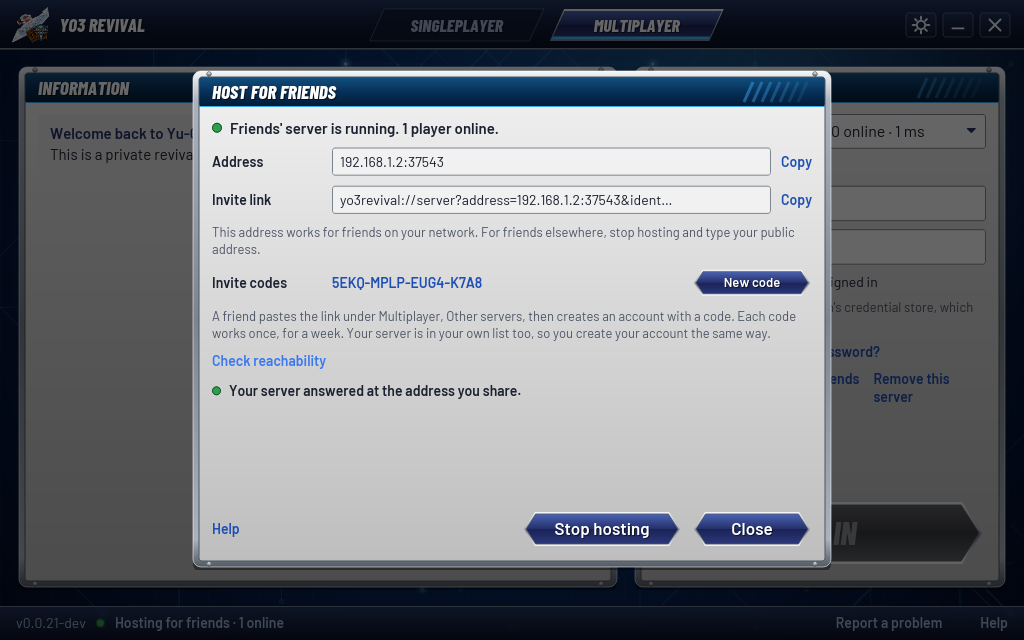
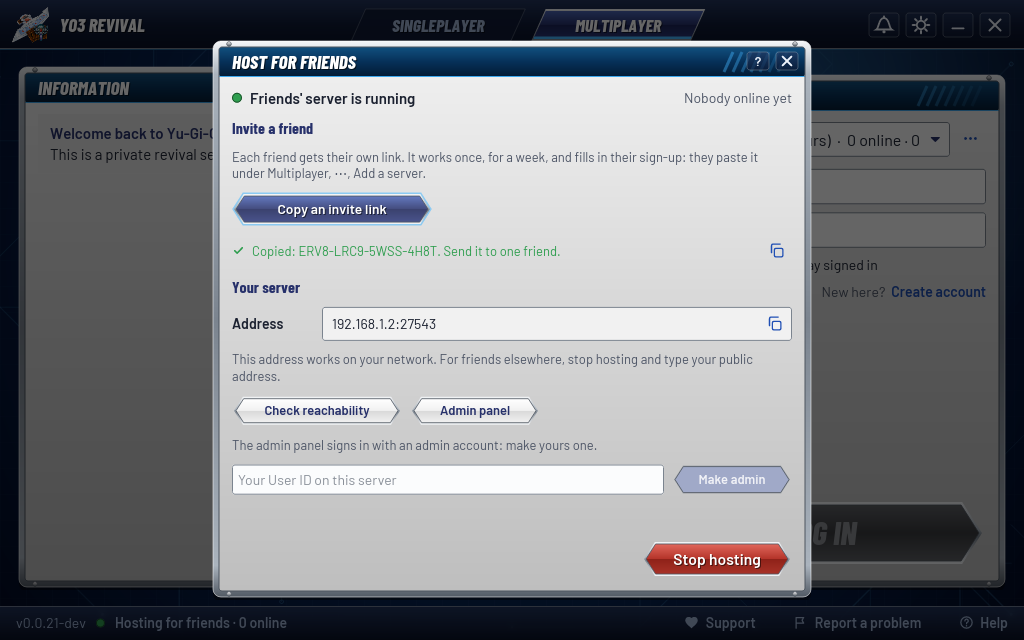
docs: the launcher's UX pass in the guides, the style guide and new screenshots (#50)

diff --git a/docs/launcher.md b/docs/launcher.md
@@ -68,8 +68,8 @@ game** with **Fix**, which reopens Setup at the Game step. Settings → Game →
 ![The main screen: Singleplayer, with the Information panel and PLAY](../screenshots/desktop.png)
 
 **PLAY** starts your own server, then the game, and the line above the button names each step; after 30 seconds
-without the game, **Cancel** stops what it started. While you play, **Close game** asks the game to stop and forces it
-after 10 seconds. Your server stops 30 seconds after the game exits, so a quick relaunch reuses it. If YO3 Revival
+without the game, the big button becomes **CANCEL**, which stops what it started. While you play it is **CLOSE GAME**,
+which asks the game to stop and forces it after 10 seconds. Your server stops 30 seconds after the game exits, so a quick relaunch reuses it. If YO3 Revival
 crashes, the game keeps playing and your server stops by itself once nobody has played for two minutes. A game opened
 without the launcher shows as **PLAYING**, so a second copy can't be started.
 
@@ -84,26 +84,33 @@ starts, newest first); Settings → Singleplayer has the backups, a reset and th
 
 The **Multiplayer** tab signs in to servers with a User ID and password ([accounts](authentication.md#accounts)):
 
-![The Multiplayer tab, signed in to a friend's server, with the game running](../screenshots/multiplayer.png)
+![The Multiplayer tab, signed in to a server, with the server tools beside the list](../screenshots/multiplayer.png)
 
 - **The server list**: the official servers (from a list signed by the project, once it publishes one) and the ones you
-  added under **Other servers**, the last one you played on first. Each shows whether it is online, with how many
-  players and its ping, or Maintenance, Offline, Needs a newer launcher, or Identity changed. The Information panel shows
-  the chosen server's news.
-- **Other servers**: paste an invite link a host sent you (`yo3revival://server?…`), or type an address (`host` or
-  `host:port`). An invite link carries the server's identity, so it is added at once. An address shows the server's
-  name first; **Details** shows its identity, to compare with one the host gave you. YO3 Revival checks the identity on
-  every connection after that. If it ever changes, the server's row says so and nothing connects: remove the server and
-  add it again only if the host confirms the change.
-- **Create account**: a User ID (3 to 16 letters or digits), a password of 8 to 16 letters or digits, typed twice,
-  and the server's invite code when it asks for one. You then see a **recovery code** once: save it.
+  added, the last one you played on first. Each shows whether it is online (the dot: green, amber or red), with how
+  many players and its ping, or Maintenance, Offline, Needs a newer launcher, or Identity changed. The Information panel
+  shows the chosen server's news.
+- **Server tools** (the **⋯** beside the list): **Add a server**, **Host for friends**, and **Remove this server** for one
+  you added.
+- **Add a server**: paste an invite link a host sent you (`yo3revival://server?…`), or type an address (`host` or
+  `host:port`). The line under the box says what it found as you type: the link's server, or the name of the server
+  that answers at that address; **Add** works once something is found. An invite link carries the server's identity,
+  so it is added at once, and a link made for you carries your invite code too: making your account opens with it
+  filled in. An address shows the server's name first; **Details** shows its identity, to compare with one the host
+  gave you. YO3 Revival checks the identity on every connection after that. If it ever changes, the server's row says
+  so and nothing connects: remove the server and add it again only if the host confirms the change.
+- **Create account** (under the sign-in, **New here?**): a User ID (3 to 16 letters or digits), a password of 8 to 16
+  letters or digits that isn't the User ID, typed twice, and the server's invite code when it asks for one. A list
+  under the form ticks each rule green as you type; **Create account** works once all are met and the rules are
+  accepted. You then see a **recovery code** once: **Copy** it or **Save** it as a text file, then **I saved it** signs
+  you in.
 - **LOG IN**: **Save User ID** keeps only the name. **Stay signed in** keeps a sign-in token in your system's credential
   store (Windows Credential Manager, or the Secret Service on Linux), never the password; without such a store it is
   off and says why. Wrong User ID or password get the same message, and repeated tries wait longer each time.
 - **Forgot password?**: your recovery code (or a reset code from the server's moderators, who check it's you first) and
   a new password. A recovery code is replaced by a new one, shown once.
-- **PLAY** starts the game signed in to the server; **Close game** works as in Singleplayer. **Sign out** forgets this
-  PC's sign-in. Signing in elsewhere ends this game's session: the newest sign-in wins. PLAY checks your sign-in first:
+- **PLAY** starts the game signed in to the server; **CLOSE GAME** and **CANCEL** work as in Singleplayer. Signed in,
+  the panel shows your User ID with a red **Sign out**, which forgets this PC's sign-in. Signing in elsewhere ends this game's session: the newest sign-in wins. PLAY checks your sign-in first:
   if it ended (the server restarted, a moderator, or a sign-in on another PC), **Stay signed in** starts a new one, and
   otherwise you sign in again.
 
@@ -115,24 +122,27 @@ Settings → Accounts lists every server you're signed in to on this PC, with Si
 LAN". It is the same server as Singleplayer's, with its own data (its own accounts, cards and decks), and it runs while
 YO3 Revival is open.
 
-![Host for friends: the address, the invite link, an invite code and a friend online](../screenshots/host-friends.png)
+![Host for friends: an invite link for a friend, the address and a friend online](../screenshots/host-friends.png)
 
-1. On the Multiplayer tab, click **Host for friends**.
+1. On the Multiplayer tab, open the server tools (**⋯**) and click **Host for friends**.
 2. Give your server a name. Keep port **7443** unless something else uses it. Leave **Address to share** empty for
    this PC's network address (friends on your home network reach it), or type your public address or a name such as
    `play.example.com` for friends elsewhere (see [Friends can't connect](#troubleshooting)).
-3. Click **Start hosting**. The dialog shows the **Address** and the **Invite link**, each with **Copy**, and an invite
-   code. Send each friend the link and their own code: **New code** makes another. A code works once, for a week.
-4. Your friend pastes the link under Multiplayer → **Other servers**, clicks **Create account** and uses the code.
-5. Your server is in your own Multiplayer list too, as **(yours)**: make your own account there with a code, and play
-   on it like everyone else.
+3. Click **Start hosting**. Then, for each friend, click **Copy an invite link** and send them what it copied. Each
+   friend gets their own link: it carries a single-use invite code that works for a week. The dialog lists the links
+   made this time, with a copy button each, and the **Address** with its own.
+4. Your friend pastes the link under Multiplayer → **⋯** → **Add a server**: making their account opens with the code
+   filled in.
+5. Your server is in your own Multiplayer list too, as **(yours)**: make your own account there with an invite link of
+   your own, and play on it like everyone else.
 
 The footer says **Hosting for friends** with how many players are online; click it to open the dialog again.
 **Check reachability** asks your server at the address you share. From this PC that also needs your router to loop the
 connection back, so a failure there means "maybe", not "no". **Admin panel** opens your server's
 admin panel in your browser (accounts, moderation, news, settings, gifts). It signs in with an admin account: create
-your account on your server from Multiplayer, then type its User ID beside **Admin** and click **Make admin**. **Stop hosting** ends the server; friends' duels end as
-draws. Closing YO3 Revival stops it too, and asks first while friends are online.
+your account on your server from Multiplayer, then type its User ID in the box under it and click **Make admin**.
+The red **Stop hosting** ends the server; friends' duels end as draws. The dialog's **?** opens this topic in Help, and
+**×** closes the dialog while your server keeps running. Closing YO3 Revival stops it too, and asks first while friends are online.
 
 Only the TLS port needs to be reachable. If another program has it, the dialog says so in one line with **Change
 port**. Singleplayer and hosting can't share a port at the same time: with the defaults, your Singleplayer server gives
@@ -223,7 +233,9 @@ Multiplayer, hosting, settings, the common problems and where to talk with other
 is free, and giving changes nothing in the game.
 
 Every error is one plain sentence with one action: its own (**Retry**, **Fix**, **Repair**, **Allow**, **Restore a
-backup**) or **Report**. **Help** opens the topic for that error. **Details** shows the technical text, with your
+backup**) or **Report**. Your own server's notices show on its panel. Those about both tabs (a game opened without the
+launcher that couldn't play, an update that didn't install, a permission to give) go to the **bell** in the title
+bar, which counts the new ones; click it to see them. **Help** opens the topic for that error. **Details** shows the technical text, with your
 folders written as names such as `<game>` or `<app data>`, and **Copy** puts it on the clipboard.
 
 ![Help: the guide inside the launcher, at Host for friends](../screenshots/help.png)
@@ -233,7 +245,7 @@ folders written as names such as `<game>` or `<app data>`, and **Copy** puts it 
 **Report a problem** (in the footer, in Help, or beside an error):
 
 1. Say what you were doing and what went wrong.
-2. Click **Open the report form**. YO3 Revival saves this session's logs in a ZIP, with personal details removed, opens
+2. Click **Continue on GitHub**. YO3 Revival saves this session's logs in a ZIP, with personal details removed, opens
    the folder that holds it, and opens the project's report form in your browser, filled in with your words, the
    version and the error.
 3. Drag the ZIP into the form and submit it. Nothing is sent until you submit the form yourself.

diff --git a/docs/features.md b/docs/features.md
@@ -209,6 +209,7 @@ release, and "—" a row that is not implemented or unsupported.
 | Beta launcher: visible and signed updates (#32) | Partial | Unreleased (`beta` branch) | `updates/flow.rs` (checks at start and every 6 h, one download per version, a refused download never installed, a version that failed to start not retried, the ribbon only with the game closed, What's new from the release notes), `updates/signature.rs` (the project key built in; a throwaway test key: good, wrong-key, changed and truncated signatures, a manifest that disagrees with GitHub, a release without `SHA256SUMS.sig` or `SHA256SUMS` refused), `tools/test_release_notes.py` (the workflow's `sign_release.sh` signs with Desktop's key only; the signature not listed as a download), `lib.rs` `released_launchers_still_open_the_database_so_their_shortcuts_reach_the_update` (v0.0.21's launcher.db statements on the beta's database), `update_activation.rs` (installed at the next start, never while the game is open, a failed start keeping this version with a notice), `tools/test-packaged-update.sh` (a manifest signed by the workflow's script with a test key, a bad and a missing signature refused; with `--from` the v0.0.21 archive: its launcher's data, the update promoted, its original binary handing over to the update; in the release gate); live 2026-11-16 on private Xvfb with the real v0.0.21 archive and a v0.1.0 archive carrying this branch's launcher: v0.0.21's own updater code (stage, launch, promote) installed it and its original binary handed over; the same with the launcher before this fix failed ("Launcher database is newer than this application", the update not activated and v0.0.21 locked out of its own data); live on X11 with a fake newer release: the footer dot, the ribbon, What's new and Restart to install | Updates must be signed: the Release workflow signs `SHA256SUMS` with the `UPDATE_SIGNING_KEY` secret and checks it before publishing; a release without `SHA256SUMS.sig` is refused. `launcher.db` stays at `user_version` 1 so that v0.0.21 and older still open it and hand their shortcut over (the schema is in `launcher_schema`). Not yet seen: a real signed release (the first one is the beta's), the Windows VM. |
 | Beta launcher: Multiplayer (server list, sign-up, sign-in, recovery, server identity) | Implemented | Unreleased (`beta` branch) | `multiplayer_session.rs` (a kick and a newer sign-in end the session, no answer doesn't), `multiplayer.rs` tests (a signed list and a tampered one, key rotation, invite links, every error's sentence, the vault), `multi.rs` state tests (the button for each server state, each refusal, a session that ended before Play, a revoked stay-signed-in forgotten, no credential store), `launcher_db.rs` (schema 3 in `launcher_schema`, `user_version` staying 1 for released launchers: v0.0.21's and the beta's databases upgrade, the old `servers` table of key connections dropped with its bytes overwritten); live on X11 against a scratch invite-only server: add by address with the identity shown, sign up with an invite code, a wrong password, sign in, PLAY into the game's Select Player, Close game, sign out, recover with the recovery code, sign in again; the same on the Windows 11 VM (2026-11-16) against a scratch server on the host: setup, the identity shown on first contact matching the server key's SHA-256, sign-up with an invite code, a wrong password, sign in, PLAY into the world with a new player, a second PLAY after closing the game, a PLAY after a kick (Stay signed in resumed; without it, "Your sign-in ended…" and the form instead of a game that can't connect), recovery, sign in with the new password; Stay signed in kept its token in Windows Credential Manager under the server's identity and Sign out removed it | #30. The official list's key and where it is hosted wait on D14 (`yo3-server-list` signs it). The Secret Service on Linux is checked only through the state model and a vault in memory. |
 | Beta launcher: Settings, Help, Report a problem and plain errors | Implemented | Unreleased (`beta` branch) | `options.rs` (each setting checked and saved: screen size, direct start, banlist, Wine prefix and program, detailed logs, the hosting choices), `settings_apply.rs` (the next Play's helper command and the next server start read them), `settings.rs` state tests (a saved setting is the window's at once; a refused one changes nothing), `multiplayer_session.rs` (Sign out everywhere with and without a kept token, Change password), `singleplayer.rs` (Back up now, Reset keeps the old data), `reports.rs` (Report a problem's ZIP and form link), `help.rs`, `ui_texts.rs` (every text the window writes, Setup's checklist, the in-app guide and every library error message's sentence: no path, flag, internal file or error chain); live on X11 (private display): each Settings section, a screen size saved and read back, Verify, Help's topics, an error's Details; Windows 11 VM 2026-11-16 (Desktop bundle, a game copy in Program Files): Fix permission (one UAC prompt, the loader in place, the row and the main screen's Allow notice gone after it: `home.rs` `granting_permission_ends_the_permission_notice_and_row`), Add put a working shortcut on the desktop, Report a problem saved the ZIP, opened its folder and the browser on the report form filled with the words, version and Windows build (not submitted), Help's Discord topic | #31. Multiplayer PLAY in a protected folder only logs that direct start needs permission (Singleplayer's PLAY asks). The shortcut row keeps offering Add after one exists. The Repair dialog, a repair notice's Help and Help's Antivirus warnings topic link [the antivirus page](antivirus.md) (#38, `ui_texts.rs`; not yet seen in the VM). |
+| Beta launcher: the UX pass (#50): button roles, forms that check as you type, the notifications bell, one invite link per friend | Implemented | Unreleased (`beta` branch) | `multi.rs` tests (each sign-up rule as it is typed, an address looked up before Add and a stale answer ignored, a friend's link opening the sign-up with its code), `home.rs` tests (CLOSE GAME and CANCEL on the big button, notices about both tabs behind the bell, counted once), `invite.rs` (a link carries one friend's code), `host.rs` (one link per friend); live on a private display | Not yet checked on Windows. |
 | Beta launcher: Host for friends | Partial | Unreleased (`beta` branch) | `hosting.rs` (the invite link round trip, the address to share, the hosted server's own data, every interface, no packet logs), `host.rs` state tests (what to share after a start, a stop, a port in use with Change port); live on X11 private displays: a host started hosting, a friend on a second client pasted the invite link, made an account with an invite code, pressed PLAY and reached the map on the hosted server; the host saw them online, Check reachability, the quit warning, hosting again after a restart (the friend signed in again); Windows 11 VM 2026-11-16: hosting on the VM, Windows' firewall prompt for `yo3-server.exe` (Allow access, as the guide says), a friend on a Linux headless client pasted the invite link, made an account with an invite code and reached the map, 1 player online, Check reachability, Admin panel opened the sign-in page, Stop hosting. It found the friend refusing the new server as not yet valid (the VM's clock 9 hours ahead): identities are now valid from a day earlier (`auth.rs` `a_new_identity_is_valid_for_a_client_whose_clock_is_behind`) | #37. Reachability is checked from the host's side only. A stopped hosted server's row keeps its last status until the next check. |
 
 ## Scripts and command line

diff --git a/docs/launcher-style.md b/docs/launcher-style.md
@@ -31,6 +31,17 @@ tabs, typing with Tab and Enter, sign-in errors, dialogs, dragging, minimising a
   screen capture is shipped. The colours below were measured from the game's Select Player screen, so they match it
   without copying anything from it.
 - **One big action per screen.** PLAY or LOG IN is the bright blue button; everything else is navy, a link or a tab.
+  While the game runs the big button becomes what you can do then: **CLOSE GAME**, or **CANCEL** for a start that hangs.
+- **Each button's role shows** ([#50](https://github.com/usersina/yo3-revival/issues/50)): navy for a form's or a
+  dialog's main action, light silver for a way back or out (Back, Cancel), red for one that ends or removes something
+  (Stop hosting, Sign out, a reset). A button that can't be pressed yet is flat and faded, never like a live one.
+- **Dialogs** carry the help **?** and the **×** in their title strip; the footer holds only the actions, the main one
+  rightmost and a quiet one left of it.
+- **One message per state.** What the server's row, the big button or a field already says isn't repeated in another
+  line. Notices about both tabs go behind the title bar's bell, not in a banner over the page.
+- **Forms check as you type.** Each rule is a line that turns green when met and red when broken; the form's button
+  works once all are met. An address is looked up before Add.
+- **Short words.** A dialog says what it does in a sentence or two.
 - **Dark outside, light inside.** Bars, tabs and the backdrop are dark with light text; panels are light with dark
   text, as in the game.
 
@@ -73,17 +84,24 @@ Sizes: 15 px body, 14 px captions and footer, 19 px frame titles, about half the
 
 | Component | Function | States |
 | --- | --- | --- |
-| Navy button | `pill(label, message, Kind::Primary, width, height)` | normal, hover (lighter, cyan glow), pressed (darker, label down 1 px), disabled (steel, grey label) |
-| Big action | `pill(.., Kind::Play, ..)`, about 70 px high | as above, with a soft glow at rest |
+| Navy button | `pill(label, message, Kind::Primary, width, height)`: a form's or dialog's main action | normal, hover (lighter, cyan glow), pressed (darker, label down 1 px), disabled (flat, navy faded into the panel) |
+| Quiet button | `pill(.., Kind::Secondary, ..)`: Back, Cancel, tools in Settings | light silver face, navy label; same states |
+| Red button | `pill(.., Kind::Danger, ..)`: Stop hosting, Sign out, a reset | red face, white label; same states |
+| Big action | `pill(.., Kind::Play, ..)`, about 70 px high; any kind 50 px or higher uses the display font | as above, with a soft glow at rest; disabled is steel, its label saying what is happening |
 | Tab | `pill(.., Kind::Tab { active }, ..)`, a parallelogram | active (silver rim, navy, cyan underline), inactive (dark), hover (lighter, white label) |
-| Window control | `pill("", .., Kind::Window(Glyph::..), 34, 28)` | settings, minimise, close (red under the pointer); the symbol is drawn, not a font glyph |
+| Window control | `pill("", .., Kind::Window(Glyph::..), 34, 28)` | bell, settings, minimise, close (red under the pointer), help; the symbol is drawn, not a font glyph |
+| Count | `badge(n)` on a control's corner | red with a white number, 9+ above nine |
 | Frame | `panel(Some(title), content)` | silver rim with four bolts, navy title strip with stripes, light-grey body |
 | Title bar, footer | `title_strip(content)`, `footer_strip(content)` | dark bars with a silver line toward the content |
 | Text field | `text_input(..).style(field)` | white well, blue ring when focused; `.secure(true)` for passwords |
 | Checkbox | `checkbox(..).style(tick)` | navy when ticked |
 | Drop-down | `pick_list(..).style(choice).menu_style(choice_menu)` | white well; the open list highlights in navy |
-| Link | `link(label, message, on_dark)` | blue on panels, pale on bars; brighter on hover |
-| Dialog | `modal(screen, dialog, on_blur)` | darkens the screen; a click outside or Escape closes it |
+| Link | `link(label, message, on_dark)`; `danger_link` in red; `icon_link(icon, ..)` led by an icon (the footer's three) | blue on panels, pale on bars; brighter on hover |
+| Icon | `icon(Icon::.., size, colour)`: line icons on a 24 px grid, tinted | copy, save, help, flag, heart, more, check, cross, pending, plus, trash, server, user, open, bell, link, refresh |
+| Icon button | `icon_button(icon, message, tip, on_dark)` | 30 px square, a tip under the pointer, a soft face on hover; faded when disabled |
+| Menu | `menu(items, width)` of `Item { icon, label, on_press, danger }` | a light card with a shadow; rows highlight on hover; red for a removal |
+| Checklist line | `rule(Rule::.., words)` | grey ring (not typed yet), green tick (met), red cross (broken) |
+| Dialog | `dialog(title, help, close, width, height, content)` inside `modal(screen, dialog, on_blur)` | a frame with **?** and **×** in its strip; the modal darkens the screen; a click outside or Escape closes it |
 | Backdrop | `backdrop()` | the circuit board, cropped to fill; always the bottom layer |
 | Logo | `logo(height)` | the diamond mark and YO3 REVIVAL |
 

diff --git a/docs/authentication.md b/docs/authentication.md
@@ -92,8 +92,10 @@ The `server-name` and `headline` settings show in the launcher's server list, an
 launchers older than that version, which are told to update.
 
 Players find the server with an invite link (`yo3revival://server?address=HOST:PORT&identity=HEX&name=NAME`, which
-Host for friends and `yo3-server share` make) or by typing its address in Multiplayer → Other servers and comparing
-the identity the launcher shows with the one the host gave them.
+Host for friends and `yo3-server share` make) or by typing its address in Multiplayer → **⋯** → Add a server and
+comparing the identity the launcher shows with the one the host gave them. A link made for one friend also carries their
+single-use invite code (`&code=ABCD-EFGH-JKLM-NPQR`): Host for friends makes one per friend, and `share --invite` prints
+one; the launcher fills the code into the sign-up, and Scripts' `--register` uses it without asking.
 
 A terminal host prints what to send, and an invite code for one sign-up that works for a week:
 
@@ -108,7 +110,7 @@ A Scripts player makes the account and signs in from a terminal, with the link i
 ./play.sh --profile "$PWD/client.json" --game-dir "/path/to/Yu-Gi-Oh! ONLINE 3"
 ```
 
-`--register` asks for the invite code, a password twice and the server's rules, prints the recovery code, then signs
+`--register` asks for the invite code (unless the link carries one), a password twice and the server's rules, prints the recovery code, then signs
 in as `--sign-in SERVER USER` does: it asks for the password without echoing it, keeps the device token in the
 system's credential store and writes `client.json`, which names the server, its identity and the store's entry. When
 the store isn't available (a Linux PC without a Secret Service), it says so and keeps nothing: the game's own login

diff --git a/docs/scripts.md b/docs/scripts.md
@@ -137,9 +137,11 @@ Then, in another terminal (the server may keep running), print what to send each
 ./yo3-server --advertise 192.168.1.50 share --invite
 ```
 
-It prints the server's address, its identity, the **invite link** and an **invite code** for one sign-up that works for
-a week (`yo3-server.exe` on Windows). Send the link and the code; each friend needs their own code (run it again, or
-`invite --uses N` for several). Friends with the Desktop launcher paste the link under Multiplayer → Other servers and
+It prints the server's address, its identity, the **invite link**, an **invite code** for one sign-up that works for
+a week, and the **invite link for one friend** that carries that code (`yo3-server.exe` on Windows). Send a friend the
+link for one friend: it is all they need. Each friend needs their own (run it again, or `invite --uses N` for a code
+several can use, sent beside the plain link). Friends with the Desktop launcher paste the link under Multiplayer →
+**⋯** → Add a server and
 create their account there; friends with Scripts use [`--register`](#join-a-friends-server). Nobody needs a file from
 you, and there is no account key to hand out. Who can make an account is the `registration`
 [live setting](guide.md#live-settings) ([accounts](authentication.md#setting-up-a-server)). To play on it yourself,

diff --git a/docs/guide.md b/docs/guide.md
@@ -223,8 +223,9 @@ accounts for the Scripts edition on your own PC. Keep each key profile private (
 - `stop` stops the running server gracefully, as SIGTERM and Ctrl+C do: no new logins, the duels between players end
   as draws, and a last backup. Every change is already saved as it happens.
 - `share` prints what a friend needs to join: the server's name, its address (`--advertise` and `--auth-port`), its
-  identity and the invite link carrying both. `--invite` adds an invite code for one sign-up, working for a week. A
-  Desktop friend pastes the link under Multiplayer → Other servers; a Scripts friend runs `play --register LINK USER
+  identity and the invite link carrying both. `--invite` adds an invite code for one sign-up, working for a week, and
+  the link for one friend that carries it. A Desktop friend pastes the link under Multiplayer → **⋯** → Add a server;
+  a Scripts friend runs `play --register LINK USER
   --profile client.json` ([Scripts](scripts.md#join-a-friends-server)).
 - `add-account NAME` creates a key account and its first player, for the Scripts edition on your own PC. Names are 1–16 characters and
   unique. `--also B,C` adds players to that account, up to four total.

diff --git a/README.md b/README.md
@@ -41,8 +41,8 @@ Use **64-bit Windows 10/11**, or **Linux with Wine**. **Windows 7 is not support
 
 ## Host or manage a server
 
-- **Desktop:** **Host for friends** on the Multiplayer tab runs a server on your PC and gives you an invite link and
-  invite codes to send. [Hosting guide](docs/launcher.md#host-friends).
+- **Desktop:** **Host for friends** on the Multiplayer tab runs a server on your PC and gives you an invite link for
+  each friend to send. [Hosting guide](docs/launcher.md#host-friends).
 - **Scripts edition:** Follow the [terminal hosting setup](docs/scripts.md#host-friends) and
   [server and account commands](docs/guide.md).
 
